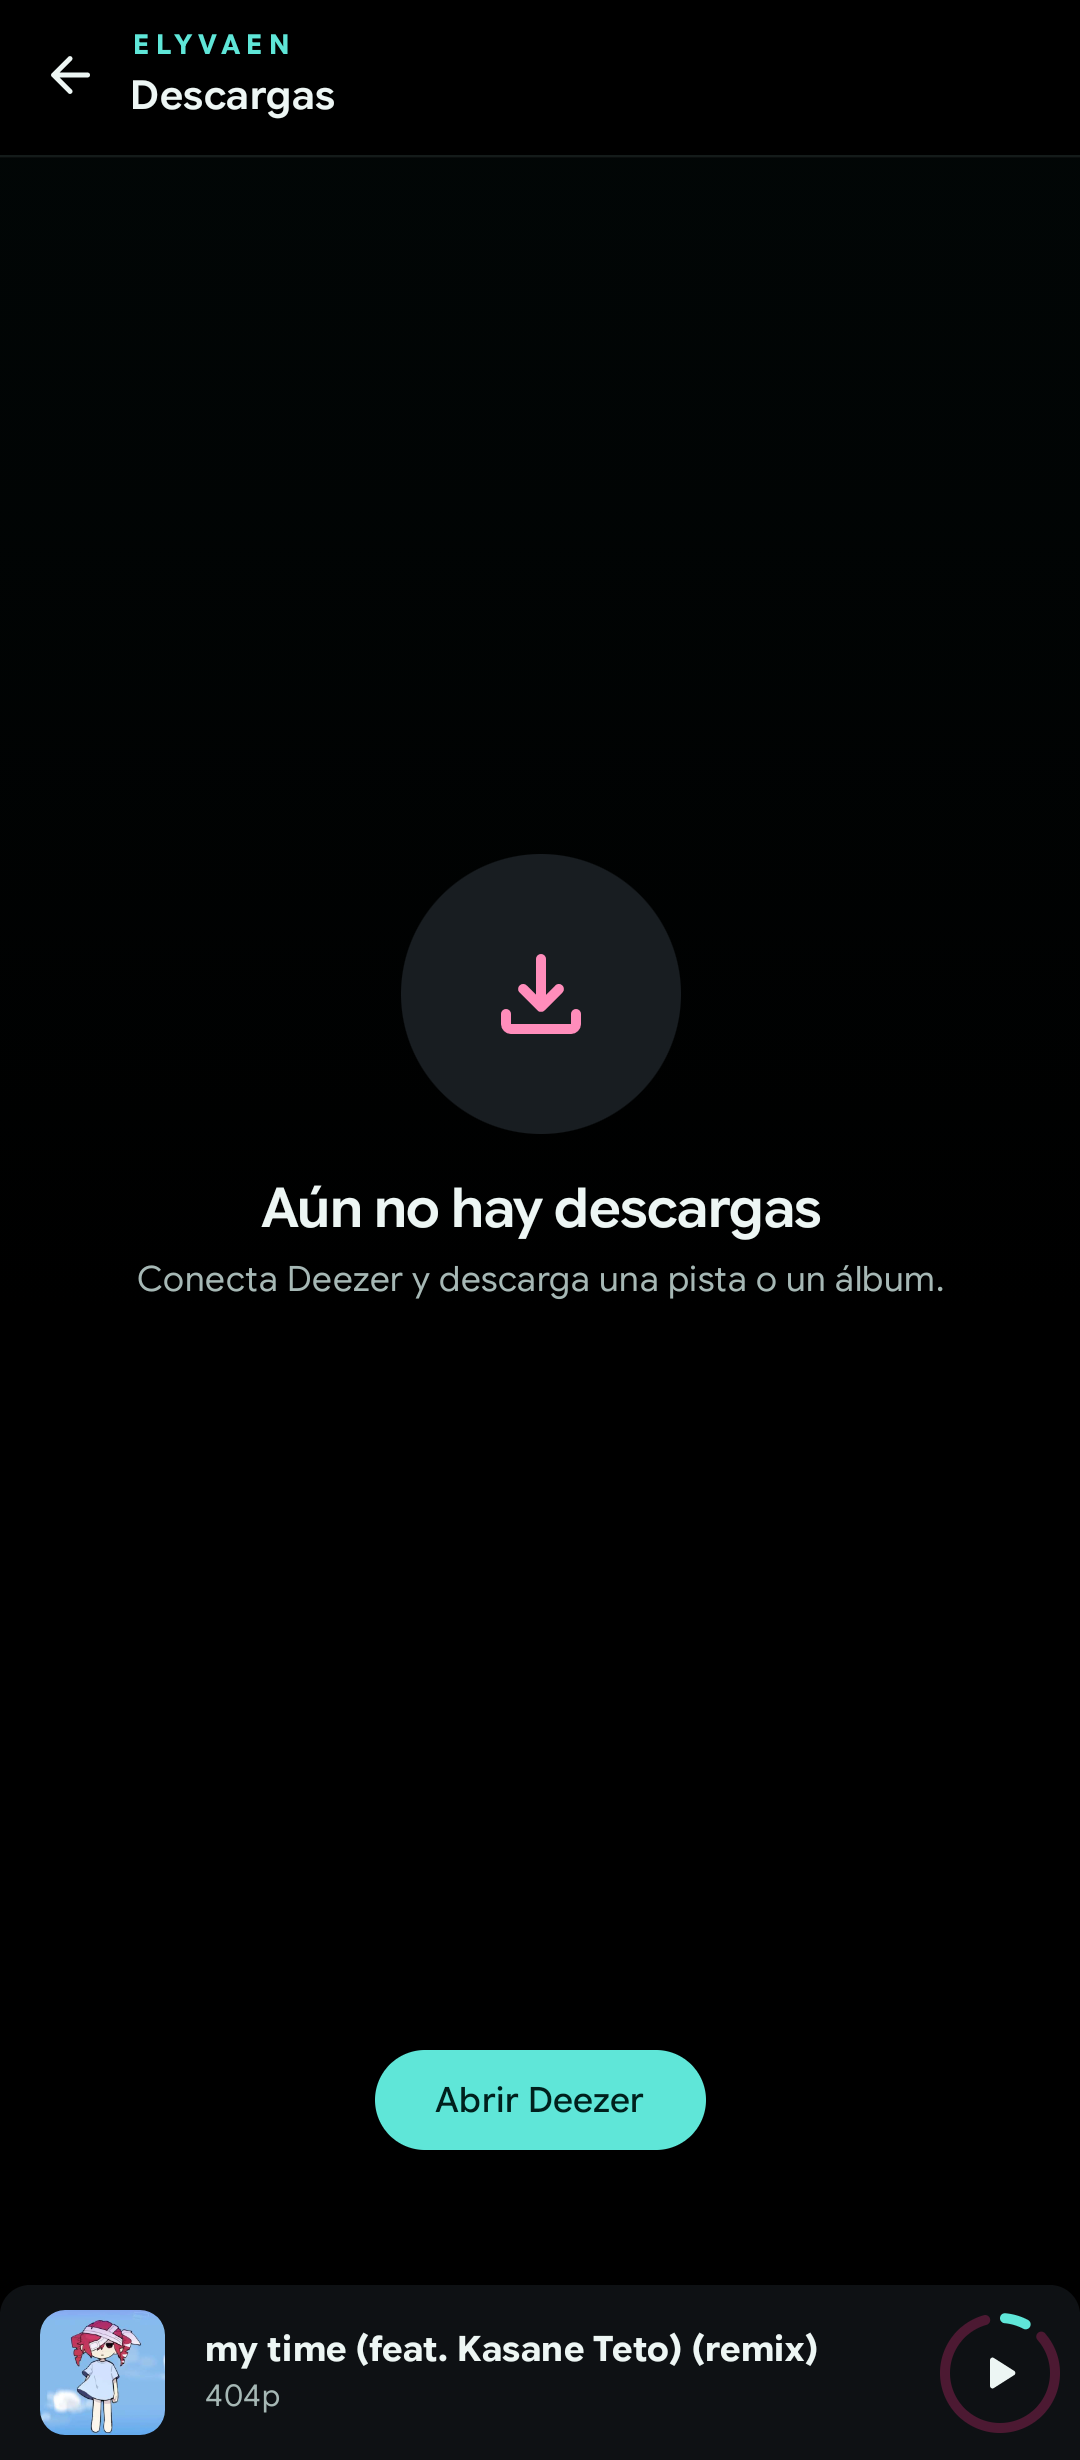
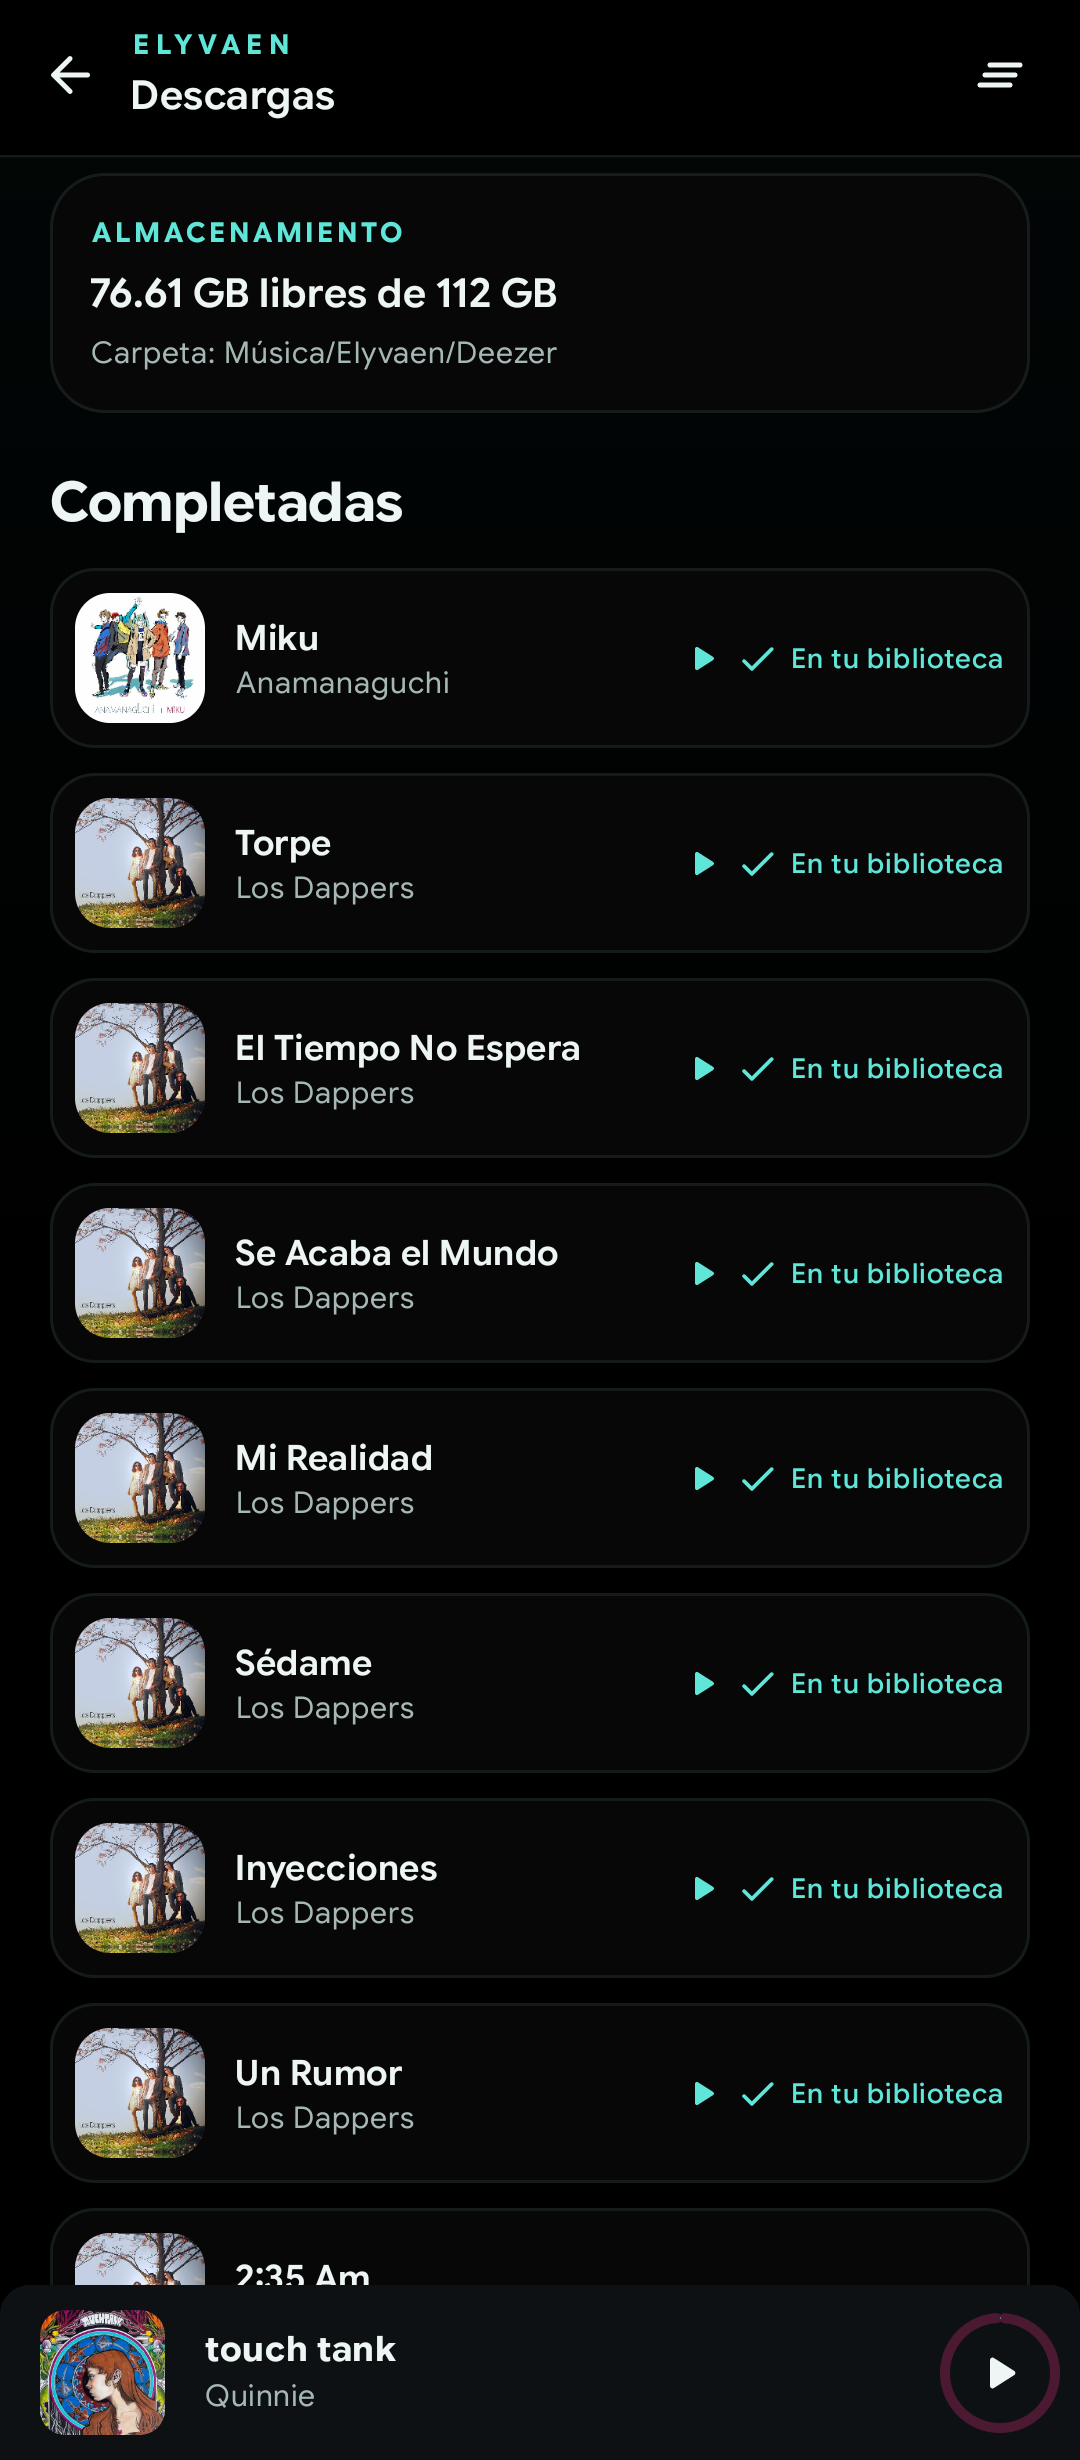
docs: record verified Deezer library, downloads and kiosk

diff --git a/docs/ecosystem-roadmap.md b/docs/ecosystem-roadmap.md
@@ -212,7 +212,7 @@ Qobuz/Tidal/Bandcamp o la compra directa son mejores fuentes.
 ## Implementado en esta iteración (UI v3 · fase 1)
 
 - **Entrada al ecosistema desde Home**: fila de fuentes `Local · Deezer ·
-  Descargas` (Descargas todavía deshabilitada).
+  Descargas`, todas habilitadas.
 - **Pantalla Deezer** (`ui/screen/deezer/`):
   - catálogo público: éxitos, álbumes destacados, playlists editoriales y
     artistas populares;
@@ -222,18 +222,21 @@ Qobuz/Tidal/Bandcamp o la compra directa son mejores fuentes.
   - botón “Abrir en Deezer” para usar la suscripción en la app oficial.
 - **Navegación** `nav_deezer` en `graph_main.xml`; la barra inferior se oculta
   en esa pantalla y vuelve al volver a Home.
-- **Sin auth todavía**: el catálogo usa la API pública. La sesión ARL,
-  reproducción completa y descargas son la siguiente fase.
+- **Sesión y biblioteca**: login oficial, perfil/plan, artistas, álbumes y
+  pistas favoritas, con alta/baja de favoritos.
+- **Descargas**: pista o álbum completo, FLAC/MP3, etiquetas y portada,
+  MediaStore, historial persistente y reproducción local desde Descargas.
 - **Sin romper nada**: la biblioteca local, UAC2, cola, letras, EQ y ajustes
   siguen igual.
 
 ### Pendiente inmediato de esta fase
 
-- Probar en dispositivo la pantalla Deezer y el preview (ADB sigue
-  desconectado).
 - Cola unificada local + Deezer y streaming sin descarga completa.
+- Mover la cola de descargas a un foreground service/WorkManager.
+- Favoritos de playlists (lectura ya disponible; falta el alta/baja fiable).
+- Verificar listas privadas de la cuenta y letras sincronizadas.
 
-## Deezer nativo experimental (implementado sin probar en dispositivo)
+## Deezer nativo experimental (verificado en dispositivo)
 
 Se añadió la base del proveedor privado, siguiendo el enfoque de Sonora:
 
@@ -252,6 +255,15 @@ Se añadió la base del proveedor privado, siguiendo el enfoque de Sonora:
   para pegar una cookie ARL; botón de descarga por pista, descarga de
   álbum/playlist/top de artista y estado por pista (en cola, descargando,
   etiquetando, descargado, error).
+- **Mi Deezer**: la barra superior abre la biblioteca de la cuenta con
+  pestañas Artistas, Álbumes, Listas y Pistas. Los favoritos se leen con
+  `deezer.pageProfile` y `favorite_song.getList`; el corazón de las fichas de
+  álbum/artista y de la vista previa añade o quita favoritos y refresca la
+  biblioteca.
+- La **historial de descargas** se guarda en preferencias privadas: al
+  reiniciar, Descargas sigue mostrando lo descargado (y una importación única
+  recupera archivos antiguos de `Music/Elyvaen/Deezer`). Tocar una fila
+  completada reproduce el archivo local con la cola normal de Elyvaen.
 - Las descargas se ejecutan en un `CoroutineScope` de aplicación; falta
   pasarlas a un foreground service/WorkManager para que sobrevivan al cierre
   de la app.
@@ -259,21 +271,29 @@ Se añadió la base del proveedor privado, siguiendo el enfoque de Sonora:
   player. El ARL es personal y no se registra en logs.
 
 También se añadió la pantalla **Descargas** (`ui/screen/deezer/DownloadsScreen.kt`):
-estado vacío, almacenamiento libre/total, descargas en curso, completadas y
-reintento. El chip `Descargas` del Home ya abre esa pantalla.
+estado vacío, almacenamiento libre/total, descargas en curso, completadas,
+reintento y reproducción local. El chip `Descargas` del Home ya abre esa
+pantalla.
 
 Se añadió **Estadísticas** (`StatsScreen.kt`, inspirada en ArchiveTune):
 tiempo escuchado, reproducciones, pistas únicas, top canciones, top artistas,
 top álbumes e historial reciente, con acceso desde el icono de tendencia del
 Home.
 
-Verificado el 2026-11-21: la navegación a Deezer, el estado offline, el
-diálogo ARL y la pantalla Descargas vacía funcionan en el Moto G51. El
-catálogo público, las previews y las descargas reales no se pudieron probar
-porque el DAP estaba en modo avión y sin Wi-Fi; el ARL del usuario todavía no
-está configurado. La build release quedó instalada y el mini-player/90 Hz
-verificados. También se corrigió el arranque para que una categoría fuera de
-la barra inferior (p. ej. Géneros) no deje la Home inaccesible.
+El **modo kiosco** ahora usa `startLockTask()` de Android además de ocultar
+las barras. El interruptor del dashboard DAP persiste la preferencia y el
+sistema muestra su confirmación de fijación la primera vez; mantener subir
+volumen sale del kiosco. Sin device owner no se puede evitar esa confirmación
+del sistema.
+
+Verificado el 2026-11-21 en el Moto G51 con la cuenta **NoelCruz (HiFi)**:
+login oficial, catálogo, búsqueda y fichas de álbum/artista/playlist;
+biblioteca de artistas, álbumes y pistas favoritas; alta/baja de favoritos;
+descarga real de una pista y de un álbum completo en FLAC 16/44.1 con etiquetas
+y portada; aparición en MediaStore (`Music/Elyvaen/Deezer/…`), reproducción
+local desde Descargas y persistencia tras reiniciar; fijación real del kiosco
+(`mLockTaskModeState=PINNED`). La build release quedó instalada y el
+mini-player/90 Hz verificados.
 
 ## Decisiones pendientes
 

diff --git a/docs/ui-v2.md b/docs/ui-v2.md
@@ -68,9 +68,12 @@ Estado: **fase 1 y 2 implementadas y verificadas en el Moto G51** (2026-11-17).
 - `screens/library-genres.png` — cabecera editorial y rejilla de géneros.
 - `screens/deezer-catalog.png` — catálogo Deezer con éxitos, álbumes y playlists.
 - `screens/deezer-login.png` — login oficial de Deezer en WebView.
+- `screens/deezer-library.png` — biblioteca de la cuenta: artistas favoritos.
+- `screens/deezer-artist.png` — ficha de artista con favorito y descarga.
 - `screens/deezer-offline.png` — pantalla Deezer sin red.
 - `screens/deezer-connect.png` — diálogo con login oficial y alternativa ARL.
-- `screens/downloads.png` — pantalla Descargas vacía.
+- `screens/downloads.png` — Descargas con historial persistente y reproducción.
+- `screens/downloads-empty.png` — estado vacío de Descargas.
 - `screens/stats.png` — estadísticas de escucha.
 - `screens/settings.png` — ajustes.
 - `screens/queue.png` — cola.
@@ -78,6 +81,7 @@ Estado: **fase 1 y 2 implementadas y verificadas en el Moto G51** (2026-11-17).
 - `screens/player-menu.png` — menú completo del player.
 - `screens/style-picker.png` — selector de estilo con Elyvaen.
 - `screens/dap-dashboard.png` — panel DAP/UAC2.
+- `screens/kiosk.png` — kiosco real con la app fijada.
 
 ## Pruebas realizadas
 
